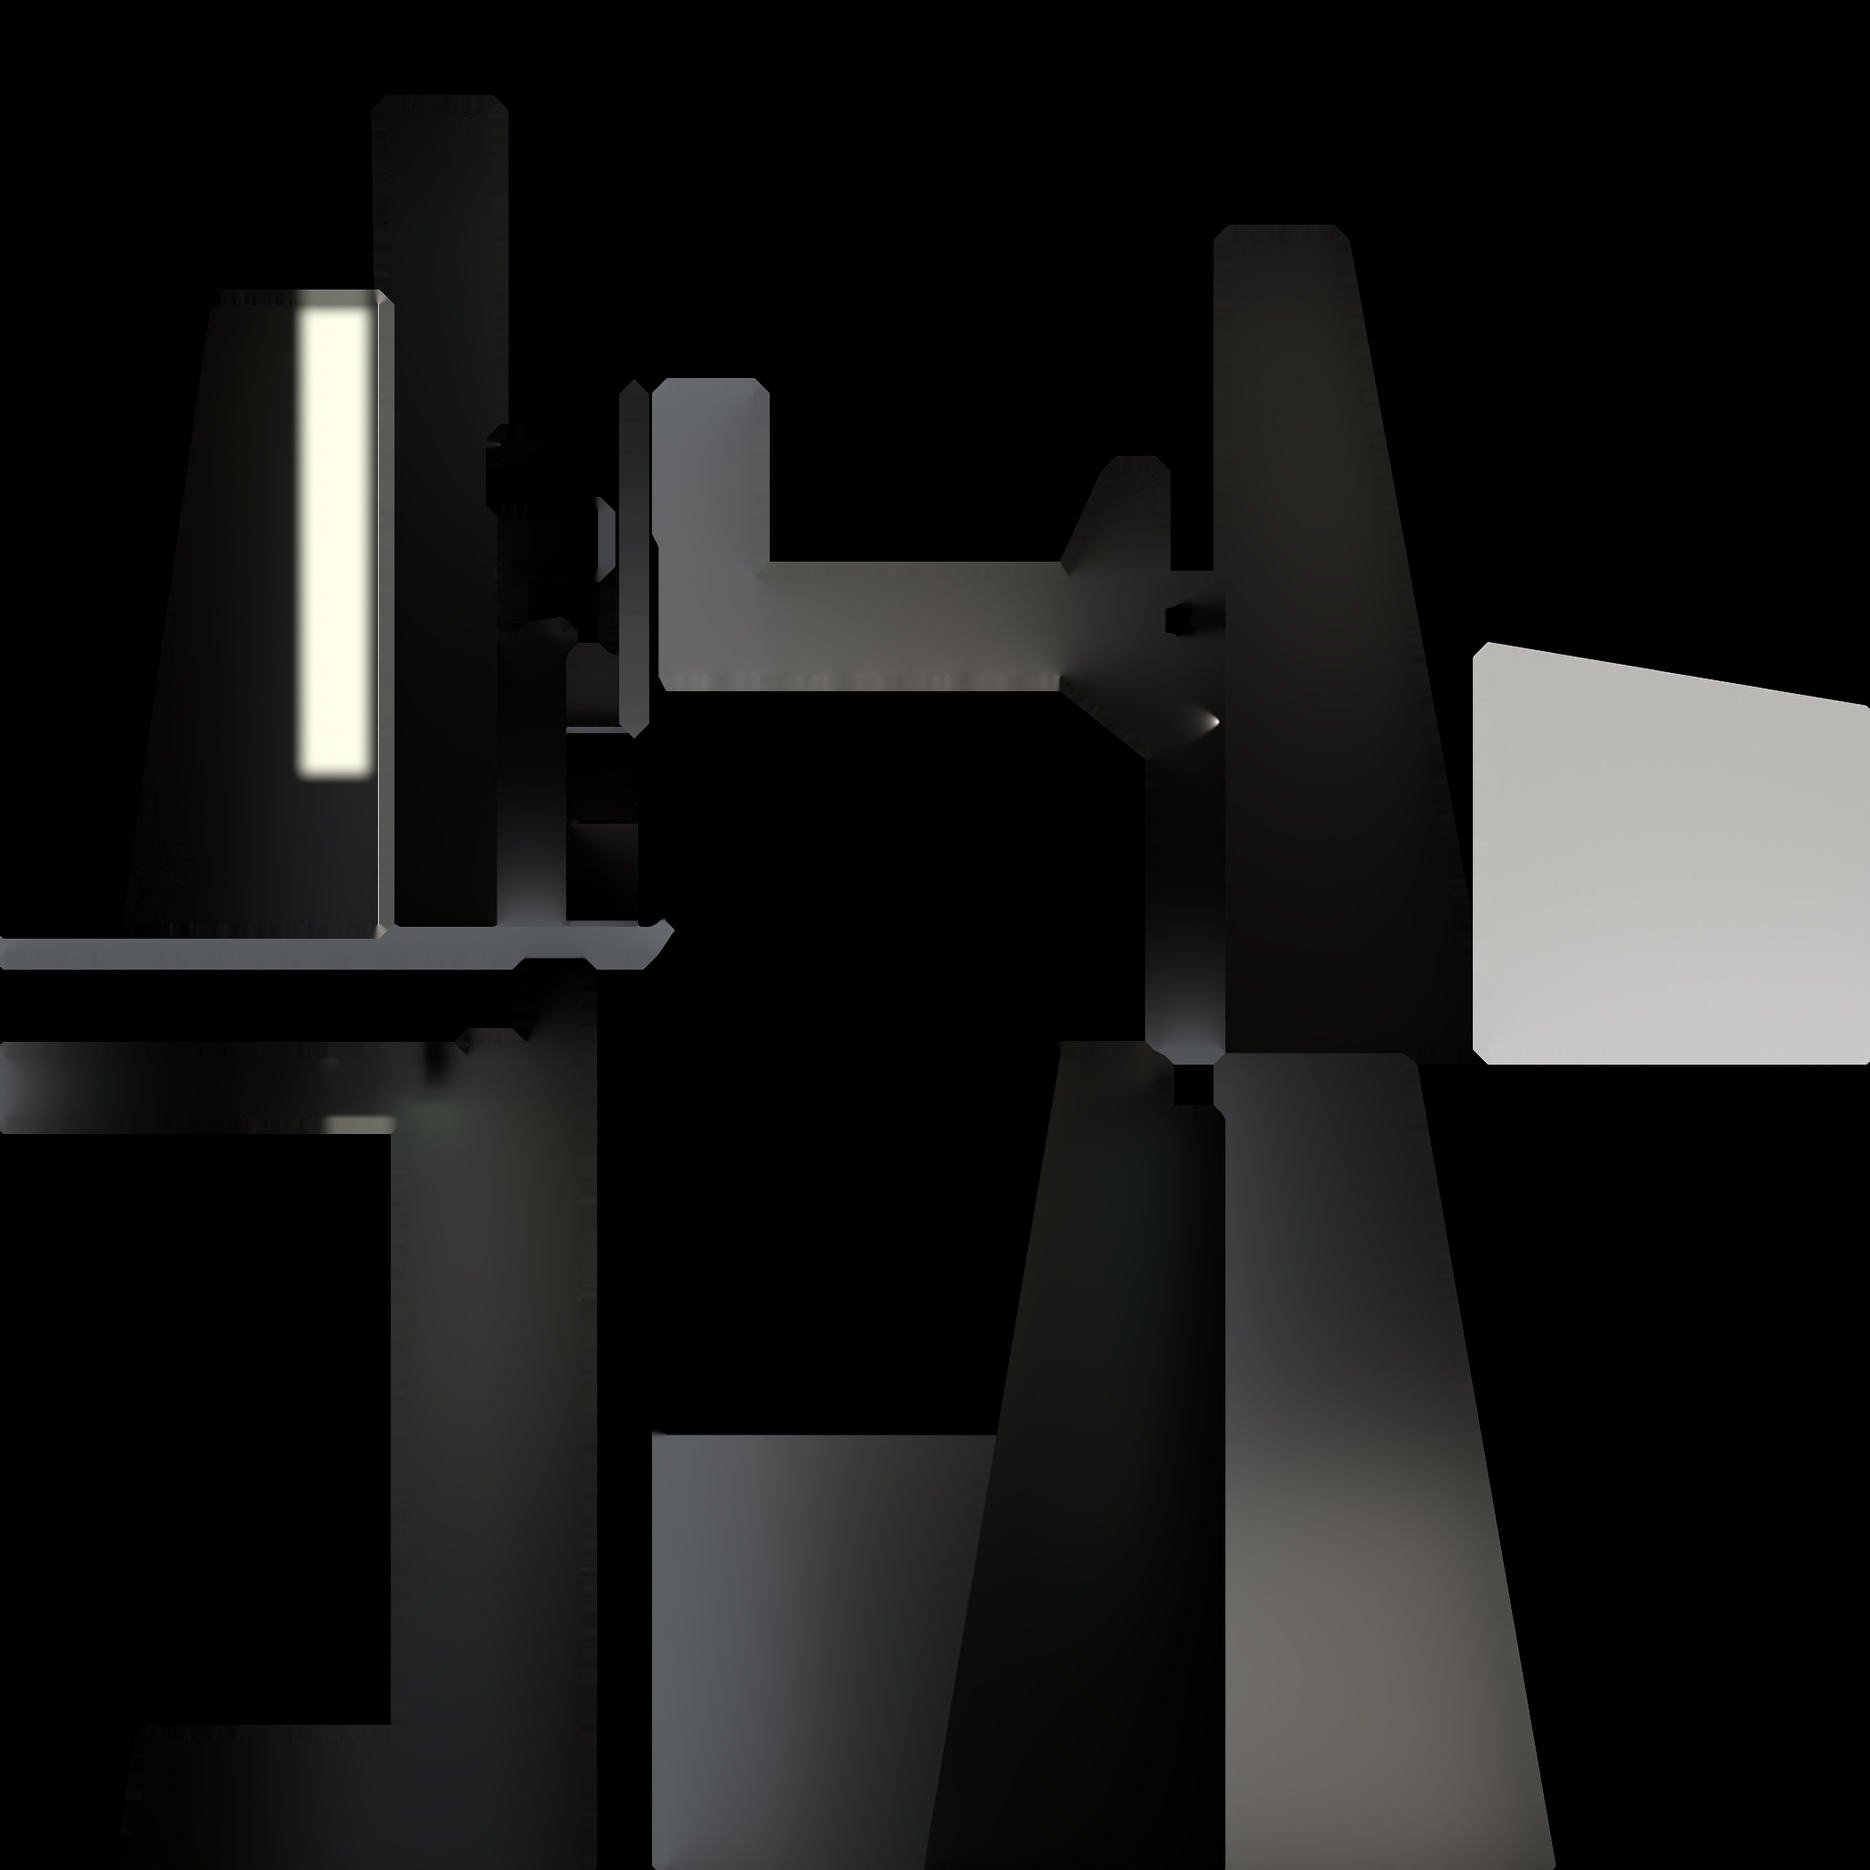
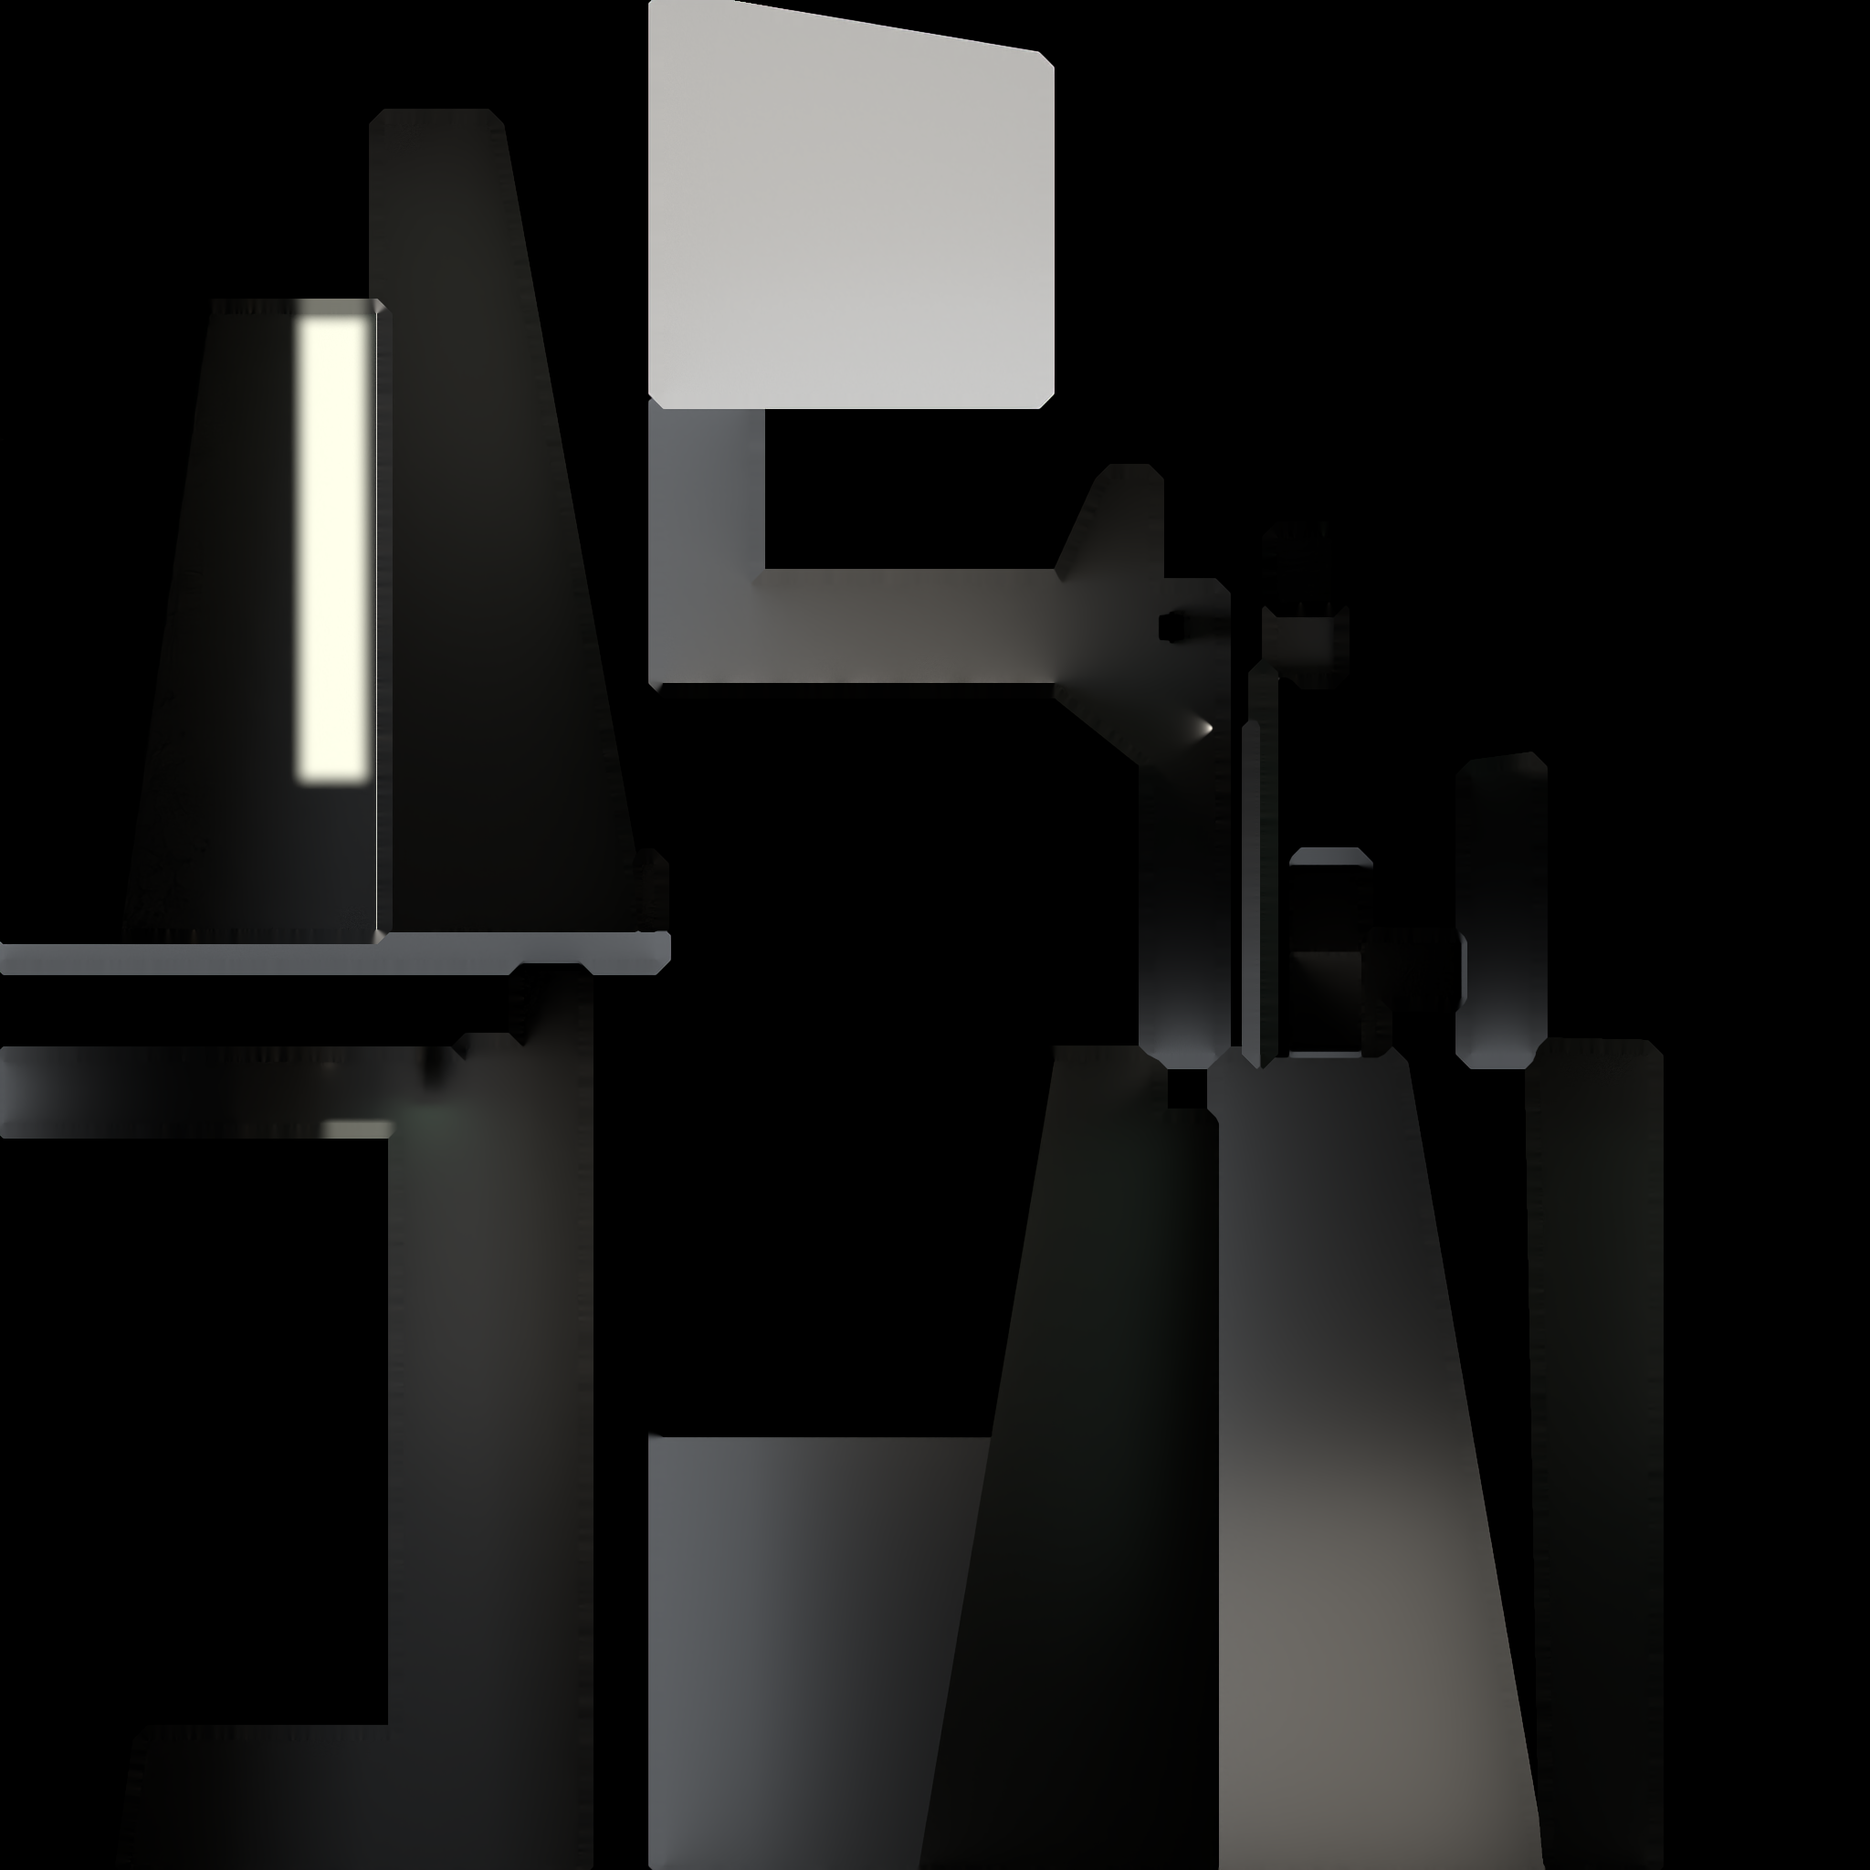
Gallery: grading panel, Control-style title, dark water, clean bake
- Colour-grade module with a tuning panel (open /gallery?grade): tone map,
  exposure, contrast, saturation, hue, vignette, baked light, terminal light,
  screen glow, water colour; 'Copy values' exports the settings
- Name as a large Control-style wordmark with tracked subtitle, set lower
- Water is a flat dark surface at floor level (closes the slit that showed
  the background as a bright line); background darkened
- Re-bake merges boolean slivers into clean faces (no black lightmap patch)

diff --git a/src/scripts/gallery/gallery.js b/src/scripts/gallery/gallery.js
@@ -1,18 +1,14 @@
-// VR Art Gallery landing: lightmapped hallway (baked in Blender), animated pool,
+// VR Art Gallery landing: lightmapped hallway (baked in Blender), still dark pool,
 // and a wall terminal you click to glide down the hallway and use.
 import * as THREE from "three";
 import { GLTFLoader } from "three/examples/jsm/loaders/GLTFLoader.js";
-import { createWater } from "./water.js";
 import { TerminalScreen } from "./terminal.js";
+import { GRADE, applyGrade, maybeGradePanel } from "./grade.js";
 
-// Look of the page. Exposure goes into AgX; contrast/brightness are an optional CSS
-// filter on the canvas (1 = off).
-const GRADE = { exposure: 0.8, contrast: 1, brightness: 1 };
 const FLY_SECONDS = 2.6;
 const SCREEN_MATERIAL = "blinn3";     // the CRT face in fallout_terminal.glb
 const WATER_MATERIAL = "Water";
 const STRIP_MATERIAL = "LightStrip";
-const SCREEN_GLOW = 2.6;
 const STRIP_GLOW = 3.0;             // pool-lip LED; the Blender value (12) reads as a thick bar without bloom
 const SCREEN_FILL = 0.52;           // CRT height as a fraction of the view at the terminal
 const TERMINAL_AMBIENT = 0.2;       // stands in for the bounce light the terminal gets in Cycles
@@ -27,15 +23,12 @@ export async function initGallery(root, data, { assets = "/gallery/", onProgress
   const host = root.querySelector("[data-gallery-canvas]");
   const renderer = new THREE.WebGLRenderer({ antialias: true, powerPreference: "high-performance" });
   renderer.setPixelRatio(Math.min(devicePixelRatio, 1.75));
-  renderer.outputColorSpace = THREE.SRGBColorSpace;
-  renderer.toneMapping = THREE.AgXToneMapping;          // matches the Blender view transform
-  renderer.toneMappingExposure = GRADE.exposure;
-  if (GRADE.contrast !== 1 || GRADE.brightness !== 1)
-    renderer.domElement.style.filter = `contrast(${GRADE.contrast}) brightness(${GRADE.brightness})`;
+  renderer.outputColorSpace = THREE.SRGBColorSpace;   // tone mapping / exposure: see grade.js
   host.appendChild(renderer.domElement);
 
   const scene = new THREE.Scene();
-  scene.background = new THREE.Color().setRGB(0.7 * 4, 0.75 * 4, 0.82 * 4, THREE.LinearSRGBColorSpace);
+  // never meant to be seen from the camera path; dark so any sliver of gap reads as shadow
+  scene.background = new THREE.Color(0x050505);
 
   const info = await (await fetch(assets + "lightmaps.json")).json();
   const camera = new THREE.PerspectiveCamera(info.camera.fovY, 1, 0.05, 200);
@@ -54,6 +47,7 @@ export async function initGallery(root, data, { assets = "/gallery/", onProgress
   scene.add(gltf.scene);
 
   const terminalMeshes = [];
+  const lightmapMaterials = [], terminalLights = [];
   let screenMesh = null, waterMesh = null;
   const maxAniso = renderer.capabilities.getMaxAnisotropy();
   gltf.scene.traverse((o) => {
@@ -81,6 +75,7 @@ export async function initGallery(root, data, { assets = "/gallery/", onProgress
       basic.lightMap = null;
       basic.color.copy(m.emissive).multiplyScalar(STRIP_GLOW);
     }
+    else lightmapMaterials.push({ material: basic, base: basic.lightMapIntensity });
     o.material = basic;
     m.dispose();
   });
@@ -118,8 +113,11 @@ export async function initGallery(root, data, { assets = "/gallery/", onProgress
     if (!light) continue;               // (the sun only washes one wall; that's in the lightmap)
     scene.add(light);
     if (light.target) scene.add(light.target);
+    terminalLights.push({ light, base: light.intensity });
   }
-  scene.add(new THREE.HemisphereLight(0xb8c2cf, 0x3a3631, TERMINAL_AMBIENT));
+  const ambient = new THREE.HemisphereLight(0xb8c2cf, 0x3a3631, TERMINAL_AMBIENT);
+  scene.add(ambient);
+  terminalLights.push({ light: ambient, base: ambient.intensity });
 
   // ---------------------------------------------------------------- terminal screen
   const terminal = new TerminalScreen(data);
@@ -143,15 +141,33 @@ export async function initGallery(root, data, { assets = "/gallery/", onProgress
     screenMesh.material = new THREE.MeshBasicMaterial({
       name: SCREEN_MATERIAL,
       map: terminal.texture,
-      color: new THREE.Color(SCREEN_GLOW, SCREEN_GLOW, SCREEN_GLOW),
     });
   }
   const termBox = new THREE.Box3();
   for (const m of terminalMeshes) termBox.expandByObject(m);
 
   // ---------------------------------------------------------------- water
-  const water = waterMesh ? createWater(waterMesh, renderer) : null;
-  if (water) scene.add(water.mesh);
+  // A flat, dark, unlit surface. It sits at floor level (the baked water is 3.5 cm lower),
+  // which also closes the slit under the leaning mass where the background used to peek
+  // through as a thin bright line.
+  let waterMaterial = null;
+  if (waterMesh) {
+    const box = new THREE.Box3().setFromObject(waterMesh);
+    const size = box.getSize(new THREE.Vector3()), c = box.getCenter(new THREE.Vector3());
+    waterMaterial = new THREE.MeshBasicMaterial({ color: GRADE.water });
+    const plane = new THREE.Mesh(new THREE.PlaneGeometry(size.x, size.z), waterMaterial);
+    plane.rotation.x = -Math.PI / 2;
+    plane.position.set(c.x, -0.002, c.z);
+    scene.add(plane);
+    waterMesh.visible = false;
+  }
+
+  // ---------------------------------------------------------------- grade
+  const grade = { renderer, scene, vignetteEl: root.querySelector(".gallery-vignette"),
+    lightmapMaterials, terminalLights, screenMaterial: screenMesh?.material, waterMaterial };
+  const regrade = () => applyGrade(GRADE, grade);
+  regrade();
+  maybeGradePanel(root, GRADE, regrade);
 
   // ---------------------------------------------------------------- camera states
   // hero -> flying -> terminal -> flying -> hero
@@ -220,7 +236,6 @@ export async function initGallery(root, data, { assets = "/gallery/", onProgress
     camera.aspect = w / h;
     camera.updateProjectionMatrix();
     renderer.setSize(w, h);
-    water?.resize(w * renderer.getPixelRatio(), h * renderer.getPixelRatio());
     if (state === "terminal") { const p = terminalPose(); pos.copy(p.pos); target.copy(p.target); }
   };
   new ResizeObserver(resize).observe(host);
@@ -248,12 +263,11 @@ export async function initGallery(root, data, { assets = "/gallery/", onProgress
     camera.position.y += Math.sin(t * 0.6) * 0.01;     // a breath of handheld drift
 
     terminal.update(dt, t);
-    water?.update(t);
     renderer.render(scene, camera);
   });
 
   setState("hero");
-  const api = { flyIn, flyOut, get state() { return state; }, renderer, scene, camera, terminal, water, GRADE, THREE };
+  const api = { flyIn, flyOut, get state() { return state; }, renderer, scene, camera, terminal, GRADE, regrade, THREE };
   root.gallery = api;                 // handy for tuning from the console
   return api;
 }

diff --git a/src/scripts/gallery/grade.js b/src/scripts/gallery/grade.js
@@ -1,0 +1,132 @@
+// Colour grade for the gallery + a tuning panel (open the page with ?grade).
+// Tone mapping and exposure run in three.js; contrast/brightness/saturation/hue/sepia
+// are a CSS filter on the canvas and the vignette is a CSS overlay, so the whole
+// grade costs no extra render pass.
+import * as THREE from "three";
+
+// Paste values from the panel's "Copy values" here to make them the defaults.
+export const GRADE = {
+  toneMapping: "AgX",
+  exposure: 0.8,
+  contrast: 1,
+  brightness: 1,
+  saturation: 1,
+  hue: 0,
+  sepia: 0,
+  vignette: 0.65,
+  vignetteSize: 45,
+  bakedLight: 1,        // multiplies every lightmap
+  terminalFill: 1,      // multiplies the terminal's real-time lights
+  screenGlow: 2.6,      // CRT brightness
+  water: "#030606",
+};
+
+const TONE_MAPPINGS = {
+  None: THREE.NoToneMapping,
+  Linear: THREE.LinearToneMapping,
+  Reinhard: THREE.ReinhardToneMapping,
+  Cineon: THREE.CineonToneMapping,
+  ACES: THREE.ACESFilmicToneMapping,
+  AgX: THREE.AgXToneMapping,
+  Neutral: THREE.NeutralToneMapping,
+};
+
+const FIELDS = [
+  ["toneMapping", "Tone map", { options: Object.keys(TONE_MAPPINGS) }],
+  ["exposure", "Exposure", { min: 0, max: 3, step: 0.01 }],
+  ["contrast", "Contrast", { min: 0.5, max: 2, step: 0.01 }],
+  ["brightness", "Brightness", { min: 0.3, max: 2, step: 0.01 }],
+  ["saturation", "Saturation", { min: 0, max: 2, step: 0.01 }],
+  ["hue", "Hue (deg)", { min: -180, max: 180, step: 1 }],
+  ["sepia", "Sepia", { min: 0, max: 1, step: 0.01 }],
+  ["vignette", "Vignette", { min: 0, max: 1, step: 0.01 }],
+  ["vignetteSize", "Vignette size", { min: 0, max: 90, step: 1 }],
+  ["bakedLight", "Baked light", { min: 0, max: 3, step: 0.01 }],
+  ["terminalFill", "Terminal light", { min: 0, max: 4, step: 0.01 }],
+  ["screenGlow", "Screen glow", { min: 0, max: 8, step: 0.05 }],
+  ["water", "Water", { color: true }],
+];
+
+/**
+ * hooks: { renderer, scene, vignetteEl, lightmapMaterials: [{material, base}],
+ *          terminalLights: [{light, base}], screenMaterial, waterMaterial }
+ */
+export function applyGrade(g, hooks) {
+  const { renderer, scene } = hooks;
+  const tm = TONE_MAPPINGS[g.toneMapping] ?? THREE.AgXToneMapping;
+  if (renderer.toneMapping !== tm) {
+    renderer.toneMapping = tm;
+    scene.traverse((o) => { if (o.material) [].concat(o.material).forEach((m) => (m.needsUpdate = true)); });
+  }
+  renderer.toneMappingExposure = g.exposure;
+  const f = [];
+  if (g.contrast !== 1) f.push(`contrast(${g.contrast})`);
+  if (g.brightness !== 1) f.push(`brightness(${g.brightness})`);
+  if (g.saturation !== 1) f.push(`saturate(${g.saturation})`);
+  if (g.hue) f.push(`hue-rotate(${g.hue}deg)`);
+  if (g.sepia) f.push(`sepia(${g.sepia})`);
+  renderer.domElement.style.filter = f.join(" ");
+  if (hooks.vignetteEl) {
+    hooks.vignetteEl.style.setProperty("--vig", g.vignette);
+    hooks.vignetteEl.style.setProperty("--vig-size", `${g.vignetteSize}%`);
+  }
+  for (const { material, base } of hooks.lightmapMaterials ?? []) material.lightMapIntensity = base * g.bakedLight;
+  for (const { light, base } of hooks.terminalLights ?? []) light.intensity = base * g.terminalFill;
+  hooks.screenMaterial?.color.setScalar(g.screenGlow);
+  hooks.waterMaterial?.color.set(g.water);
+}
+
+/** Bottom-right tuning panel. Only built when the URL has ?grade. */
+export function maybeGradePanel(root, g, apply) {
+  if (!new URLSearchParams(location.search).has("grade")) return;
+  const defaults = { ...g };
+  const panel = document.createElement("div");
+  panel.className = "grade-panel";
+  panel.innerHTML = `<div class="grade-head"><b>Colour grade</b><button type="button" data-collapse>–</button></div><div class="grade-body"></div>
+    <div class="grade-actions"><button type="button" data-reset>Reset</button><button type="button" data-copy>Copy values</button></div>`;
+  const body = panel.querySelector(".grade-body");
+  for (const [key, label, opt] of FIELDS) {
+    const row = document.createElement("label");
+    row.className = "grade-row";
+    row.innerHTML = `<span>${label}</span>`;
+    if (opt.options) {
+      const sel = document.createElement("select");
+      sel.innerHTML = opt.options.map((o) => `<option${o === g[key] ? " selected" : ""}>${o}</option>`).join("");
+      sel.oninput = () => { g[key] = sel.value; apply(); };
+      row.append(sel);
+    } else if (opt.color) {
+      const c = document.createElement("input");
+      c.type = "color"; c.value = g[key];
+      c.oninput = () => { g[key] = c.value; apply(); };
+      row.append(c);
+    } else {
+      const range = document.createElement("input");
+      const num = document.createElement("input");
+      Object.assign(range, { type: "range", ...opt, value: g[key] });
+      Object.assign(num, { type: "number", ...opt, value: g[key] });
+      range.oninput = () => { num.value = range.value; g[key] = Number(range.value); apply(); };
+      num.oninput = () => { range.value = num.value; g[key] = Number(num.value); apply(); };
+      row.append(range, num);
+    }
+    body.append(row);
+  }
+  panel.querySelector("[data-collapse]").onclick = (e) => {
+    panel.classList.toggle("is-collapsed");
+    e.currentTarget.textContent = panel.classList.contains("is-collapsed") ? "+" : "–";
+  };
+  panel.querySelector("[data-reset]").onclick = () => {
+    Object.assign(g, defaults);
+    panel.remove();
+    apply();
+    maybeGradePanel(root, g, apply);
+  };
+  panel.querySelector("[data-copy]").onclick = async (e) => {
+    const text = JSON.stringify(g, null, 2);
+    try { await navigator.clipboard.writeText(text); e.currentTarget.textContent = "Copied!"; }
+    catch { prompt("Copy these values:", text); }
+    setTimeout(() => (e.currentTarget.textContent = "Copy values"), 1500);
+  };
+  // keep the panel's clicks/keys/wheel away from the 3D view and the terminal
+  for (const ev of ["pointerdown", "click", "wheel", "keydown"]) panel.addEventListener(ev, (e) => e.stopPropagation());
+  root.append(panel);
+}
